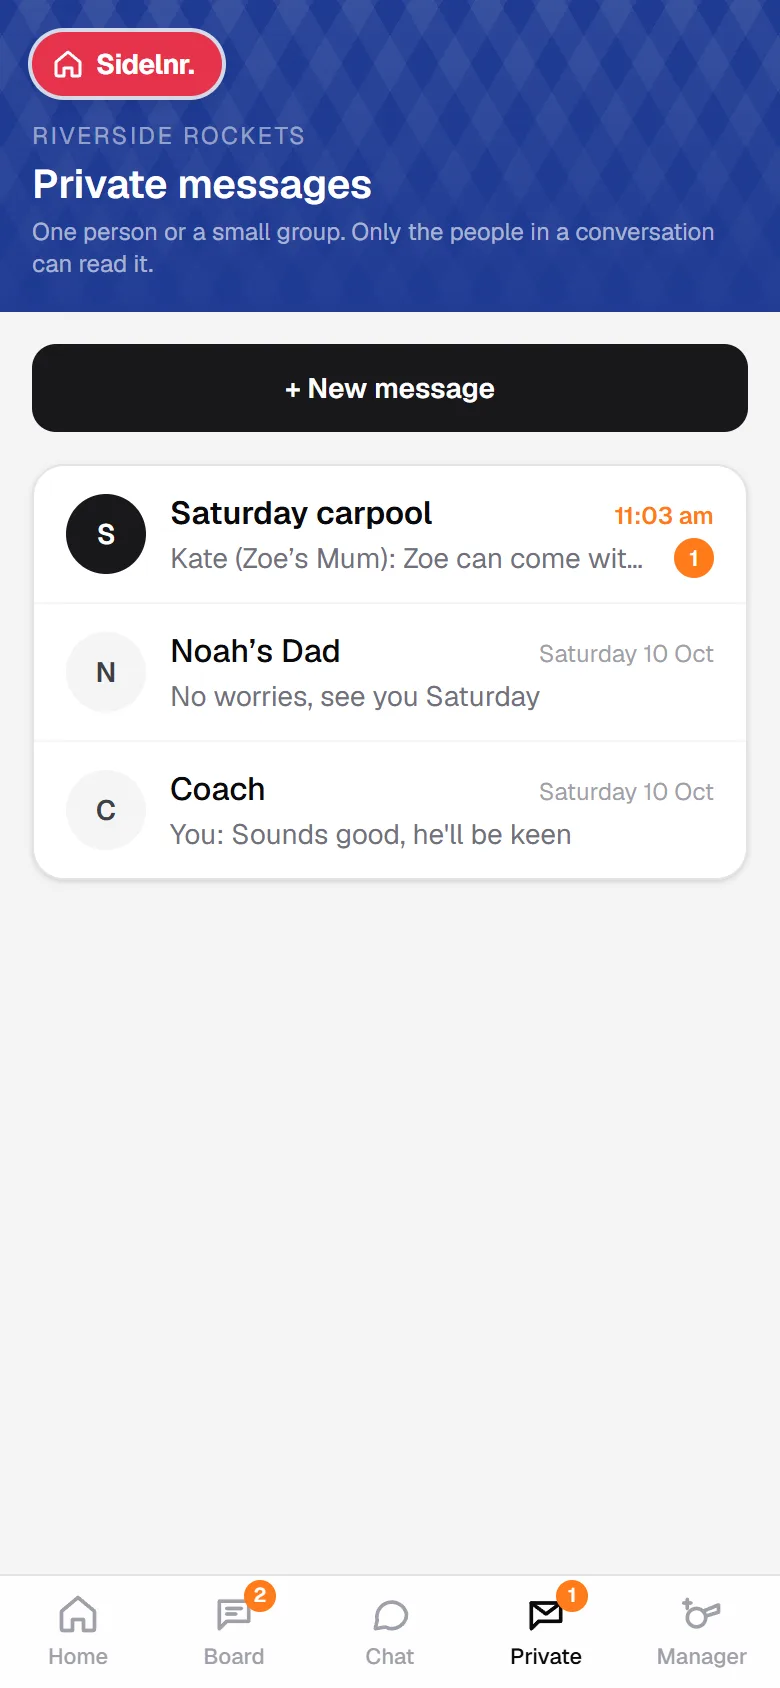
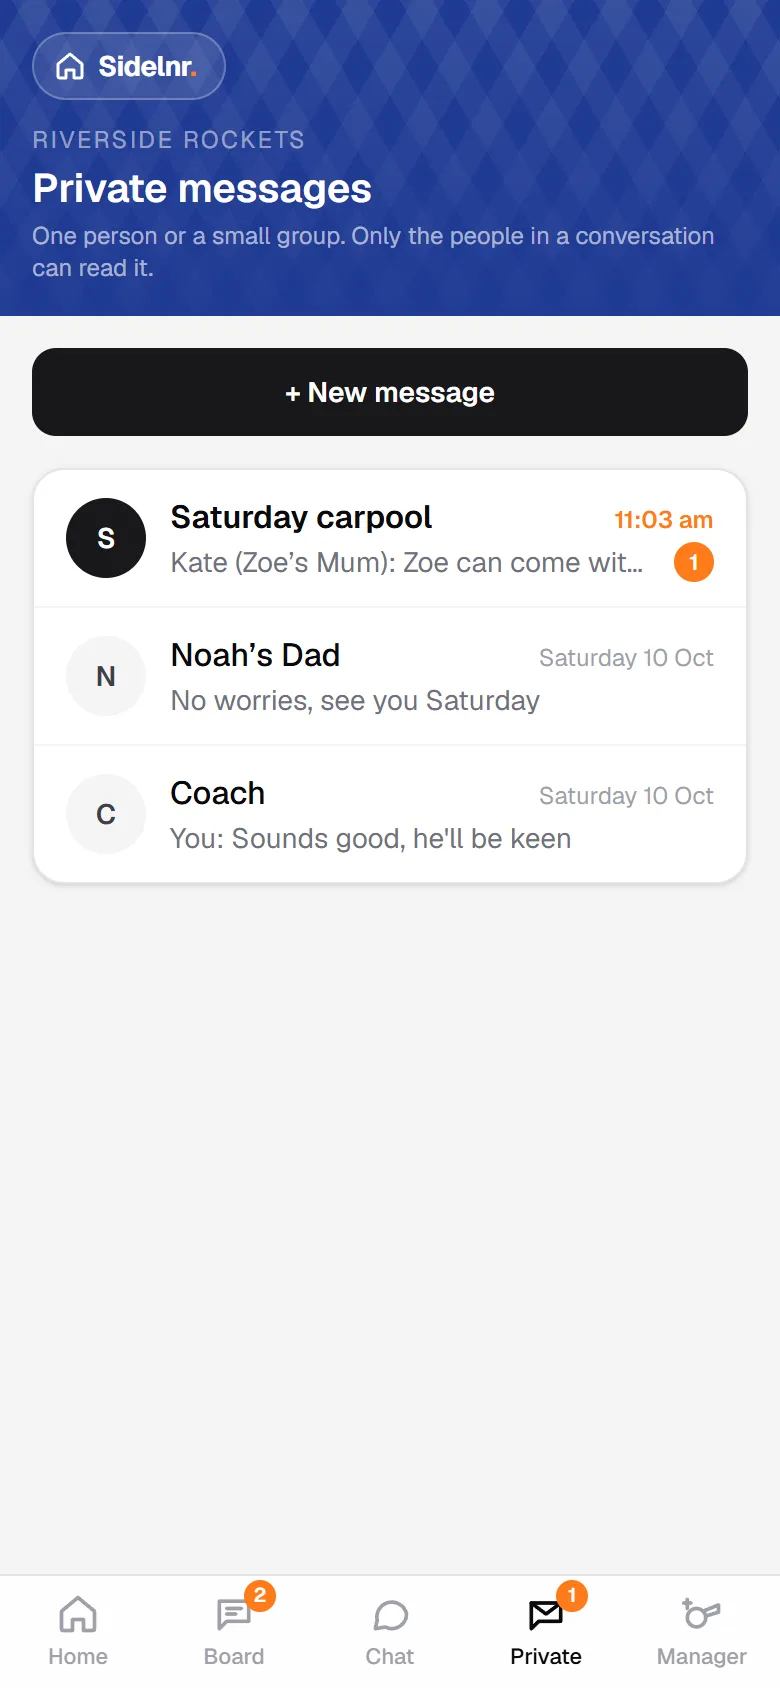
Sidelnr home button back to its original look (takes the colour of where it sits); guide pictures retaken

diff --git a/src/components/SidelnrLink.tsx b/src/components/SidelnrLink.tsx
@@ -3,20 +3,20 @@ import Link from "next/link";
 // The way back to the Sidelnr home page (the hub: My Activities, your teams,
 // leagues and events), in the same spot on every page: top left. It says
 // "Sidelnr" rather than "Home" because a team's tab bar has its own Home (the
-// team's page). Always Sidelnr red with white text, with a thin white ring so it
-// stands out on any team colour (red ones included) and on plain pages.
+// team's page). Takes the text colour of where it sits, so it works on the
+// team colours and on plain pages alike.
 export function SidelnrLink({ className = "mb-3" }: { className?: string }) {
   return (
     <Link
       href="/"
       aria-label="Sidelnr home"
-      className={`inline-flex items-center gap-1.5 rounded-full bg-[#e5334b] py-1.5 pl-2.5 pr-3.5 text-sm font-bold tracking-tight text-white shadow-md ring-2 ring-white/80 ${className}`}
+      className={`inline-flex items-center gap-1.5 rounded-full border border-current/25 bg-current/10 py-1.5 pl-2.5 pr-3.5 text-sm font-bold tracking-tight ${className}`}
     >
       <svg viewBox="0 0 24 24" aria-hidden className="size-4" fill="none" stroke="currentColor" strokeWidth="2.2" strokeLinecap="round" strokeLinejoin="round">
         <path d="M3 10.5 12 3l9 7.5V20a1 1 0 0 1-1 1h-5v-6H9v6H4a1 1 0 0 1-1-1z" />
       </svg>
       <span>
-        Sidelnr.
+        Sidelnr<span className="text-accent">.</span>
       </span>
     </Link>
   );

diff --git a/src/app/account/competitions/[id]/page.tsx b/src/app/account/competitions/[id]/page.tsx
@@ -179,7 +179,7 @@ export default async function CompetitionAdminPage({ params, searchParams }: Pag
     return (
       <div className="mx-auto max-w-md space-y-4 p-4 pb-10">
         <div className="flex items-center justify-between gap-3 text-sm text-zinc-500">
-          <SidelnrLink className="" />
+          <SidelnrLink className="text-zinc-900" />
           <Link href="/account/leagues">← My leagues</Link>
         </div>
         <div>
@@ -321,7 +321,7 @@ export default async function CompetitionAdminPage({ params, searchParams }: Pag
   return (
     <div className="mx-auto max-w-md space-y-4 p-4 pb-10">
       <div className="flex items-center justify-between gap-3 text-sm text-zinc-500">
-        <SidelnrLink className="" />
+        <SidelnrLink className="text-zinc-900" />
         <span className="flex gap-3">
           <Link href={event ? "/account/events" : "/account/leagues"}>← {event ? "My events" : "My leagues"}</Link>
           {event && (

diff --git a/src/app/account/leagues/new/page.tsx b/src/app/account/leagues/new/page.tsx
@@ -19,7 +19,7 @@ export default async function NewLeaguePage({ searchParams }: PageProps<"/accoun
     return (
       <div className="mx-auto max-w-md space-y-4 p-4 pb-10">
         <div className="flex items-center justify-between gap-3 text-sm text-zinc-500">
-          <SidelnrLink className="" />
+          <SidelnrLink className="text-zinc-900" />
           <Link href="/account/leagues">← My leagues</Link>
         </div>
         <div>
@@ -40,7 +40,7 @@ export default async function NewLeaguePage({ searchParams }: PageProps<"/accoun
   return (
     <div className="mx-auto max-w-md space-y-4 p-4 pb-10">
       <div className="flex items-center justify-between gap-3 text-sm text-zinc-500">
-        <SidelnrLink className="" />
+        <SidelnrLink className="text-zinc-900" />
         <Link href="/account/leagues/new">← Import from a link instead</Link>
       </div>
       <div>

diff --git a/src/components/ComingSoon.tsx b/src/components/ComingSoon.tsx
@@ -5,7 +5,7 @@ import { SidelnrLink } from "./SidelnrLink";
 export function ComingSoonPage({ title, text }: { title: string; text: string }) {
   return (
     <div className="mx-auto max-w-md space-y-4 p-4 pb-10">
-      <SidelnrLink className="" />
+      <SidelnrLink className="text-zinc-900" />
       <section className="rounded-2xl border border-zinc-200 bg-white p-6 text-center shadow-sm">
         <div className="text-xs font-semibold uppercase tracking-wide text-accent">Coming soon</div>
         <h1 className="mt-1 text-xl font-semibold">{title}</h1>

diff --git a/src/app/super/page.tsx b/src/app/super/page.tsx
@@ -75,7 +75,7 @@ export default async function SuperPage({ searchParams }: PageProps<"/super">) {
     return (
       <div className="mx-auto max-w-md space-y-4 p-4 pb-10">
         <div className="flex items-center justify-between gap-3 text-sm text-zinc-500">
-          <SidelnrLink className="" />
+          <SidelnrLink className="text-zinc-900" />
           <Link href="/super">← All teams</Link>
         </div>
         <Card title={editing ? `Edit ${editing.name}` : "New team"}>

diff --git a/src/app/account/teams/[id]/page.tsx b/src/app/account/teams/[id]/page.tsx
@@ -26,7 +26,7 @@ export default async function EditMyTeamPage({ params }: PageProps<"/account/tea
   return (
     <div className="mx-auto max-w-md space-y-4 p-4 pb-10">
       <div className="flex items-center justify-between gap-3 text-sm text-zinc-500">
-        <SidelnrLink className="" />
+        <SidelnrLink className="text-zinc-900" />
         <Link href="/account">← My teams</Link>
       </div>
       <h1 className="text-xl font-semibold">Edit {team.name}</h1>

diff --git a/src/app/account/new/page.tsx b/src/app/account/new/page.tsx
@@ -21,7 +21,7 @@ export default async function NewTeamPage({ searchParams }: PageProps<"/account/
   return (
     <div className="mx-auto max-w-md space-y-4 p-4 pb-10">
       <div className="flex items-center justify-between gap-3 text-sm text-zinc-500">
-        <SidelnrLink className="" />
+        <SidelnrLink className="text-zinc-900" />
         <Link href="/account">← My teams</Link>
       </div>
       <div>

diff --git a/src/app/account/leagues/page.tsx b/src/app/account/leagues/page.tsx
@@ -20,7 +20,7 @@ export default async function MyLeaguesPage() {
   return (
     <div className="mx-auto max-w-md space-y-4 p-4 pb-10">
       <div className="flex items-center justify-between gap-3 text-sm text-zinc-500">
-        <SidelnrLink className="" />
+        <SidelnrLink className="text-zinc-900" />
         <span>
           <Link href="/account" className="underline">
             My teams

diff --git a/src/app/account/events/page.tsx b/src/app/account/events/page.tsx
@@ -22,7 +22,7 @@ export default async function MyEventsPage() {
   return (
     <div className="mx-auto max-w-md space-y-4 p-4 pb-10">
       <div className="flex items-center justify-between gap-3 text-sm text-zinc-500">
-        <SidelnrLink className="" />
+        <SidelnrLink className="text-zinc-900" />
         <span>
           <Link href="/account" className="underline">
             My teams

diff --git a/src/app/account/events/new/page.tsx b/src/app/account/events/new/page.tsx
@@ -16,7 +16,7 @@ export default async function NewEventPage() {
   return (
     <div className="mx-auto max-w-md space-y-4 p-4 pb-10">
       <div className="flex items-center justify-between gap-3 text-sm text-zinc-500">
-        <SidelnrLink className="" />
+        <SidelnrLink className="text-zinc-900" />
         <Link href="/account/events">← My events</Link>
       </div>
       <div>

diff --git a/src/app/event/new/page.tsx b/src/app/event/new/page.tsx
@@ -11,7 +11,7 @@ export default async function NewEventPage() {
   const manager = await currentManager();
   return (
     <div className="mx-auto max-w-md space-y-4 p-4 pb-10">
-      <SidelnrLink className="" />
+      <SidelnrLink className="text-zinc-900" />
       <div>
         <h1 className="text-xl font-semibold">Create an event</h1>
         <p className="mt-1 text-sm text-zinc-500">
